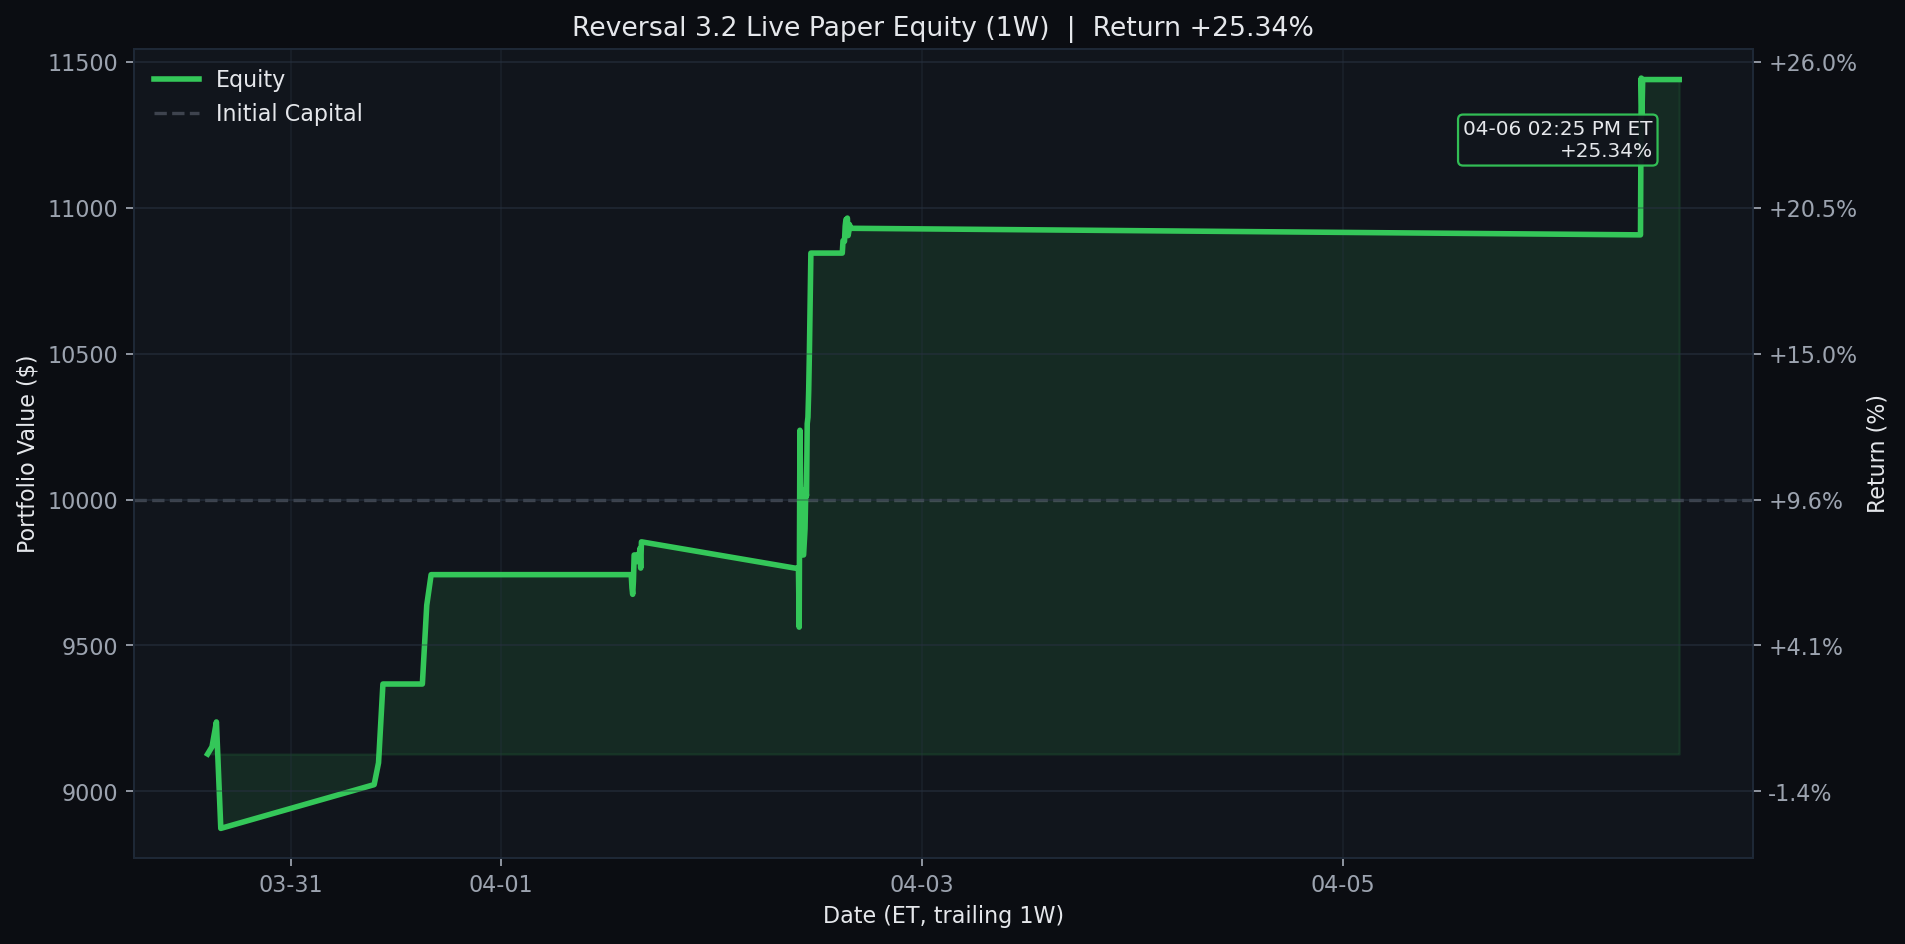
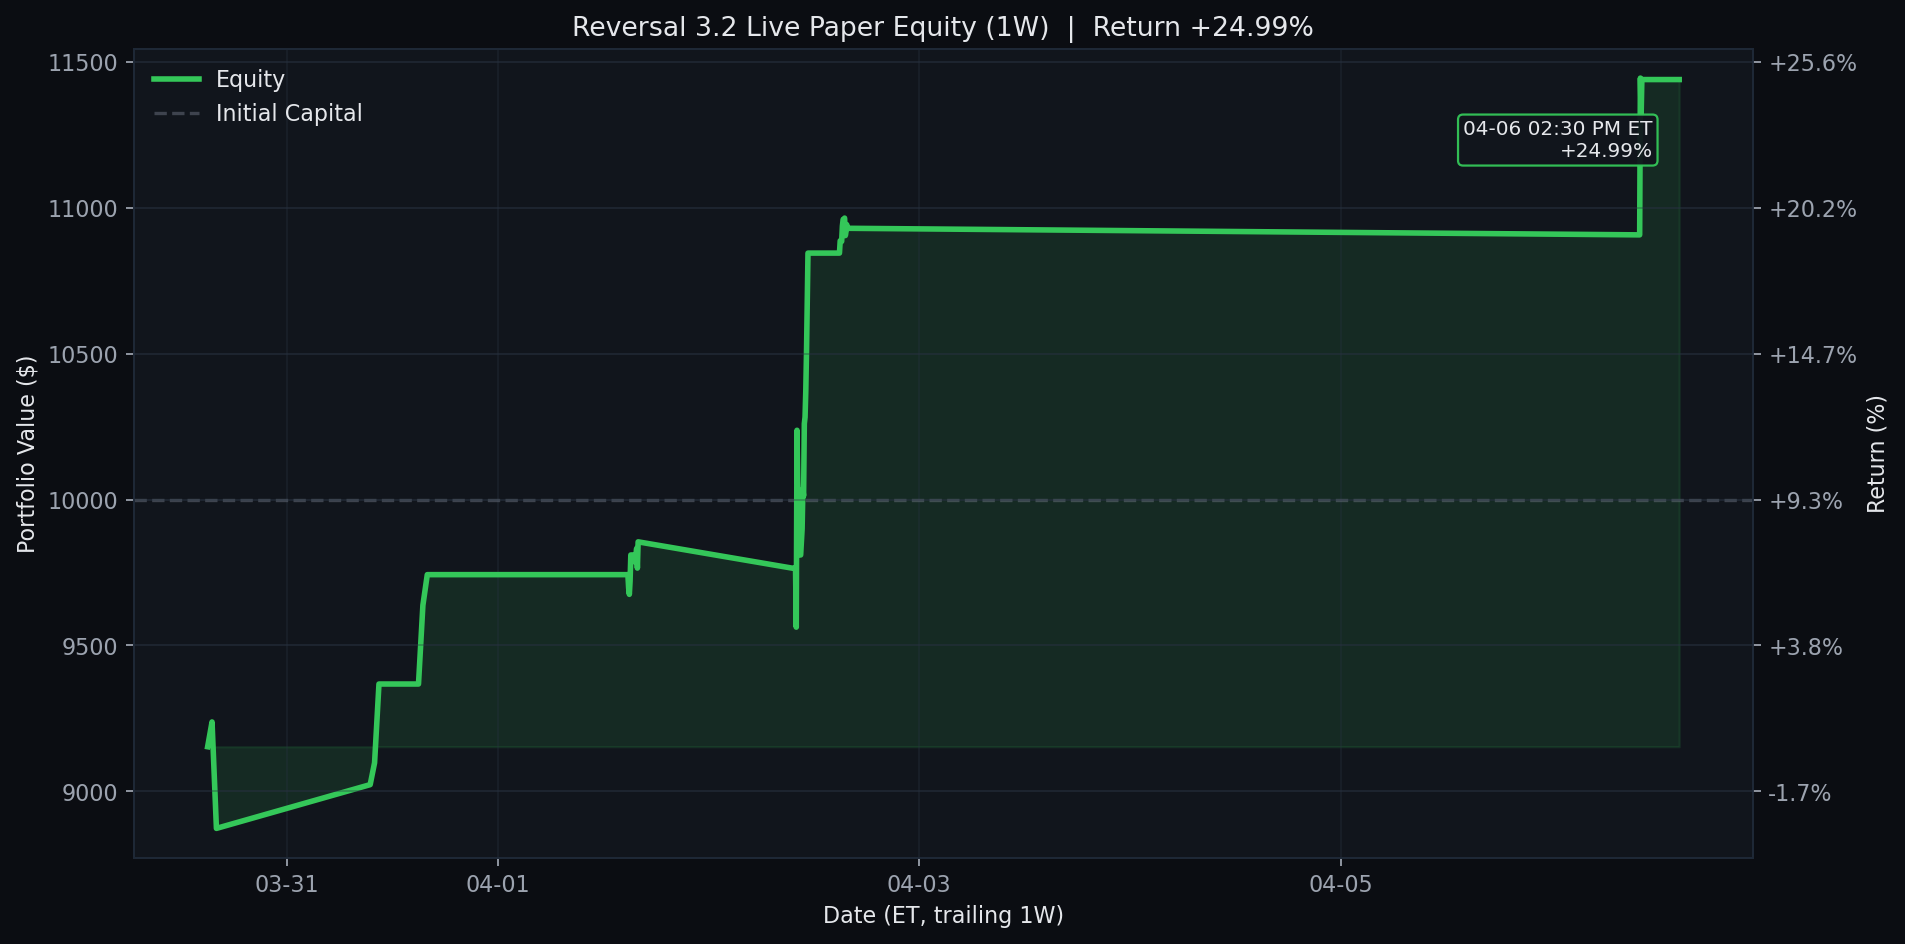
Update Reversal 3.2 live paper test 2026-04-06 14:30 ET

diff --git a/results/reversal_3_2_live/README.md b/results/reversal_3_2_live/README.md
@@ -1,6 +1,6 @@
 # Reversal 3.2 Live Paper Test
 
-Last updated (ET): `2026-04-06 14:25:05 EDT`
+Last updated (ET): `2026-04-06 14:30:05 EDT`
 Last processed slot: `manage_1430`
 
 ## Active Configuration
@@ -40,24 +40,25 @@ ticker    contract_symbol entry_trade_date_et exit_trade_date_et  entry_option_p
 
 ```text
 ticker  success_rate_%  matched_signals  current_drop_%  target_rebound_$  target_price  rolling_sigma_20d_%  call_candidate
-   HON          100.00               19            0.83              1.34        228.88                20.57            True
-  TSLA          100.00               13            3.34              8.43        356.98                42.35            True
- CMCSA           93.33               15            0.68              0.13         27.87                25.15            True
-  FAST           88.00               25            1.11              0.36         46.15                21.85            True
-  ASML           87.10               31            1.00              9.22       1313.28                51.28            True
-   LIN           86.67               15            0.96              3.36        501.16                19.40            True
-  CTAS           86.21               29            0.75              0.92        173.95                28.60            True
+   HON          100.00               20            0.77              1.24        228.92                20.57            True
+  TSLA          100.00               14            3.31              8.36        357.01                42.35            True
+ CMCSA           92.86               14            0.73              0.14         27.87                25.15            True
+  FAST           89.29               28            0.90              0.29         46.18                21.85            True
+  ASML           87.10               31            1.10             10.11       1312.90                51.28            True
+  CTAS           86.67               30            0.72              0.88        173.96                28.60            True
    EXC           85.71               21            0.53              0.18         49.25                21.30            True
-  DDOG           85.19               27            2.24              1.89        119.55                49.88            True
-  VRTX           85.00               40            0.66              2.04        437.84                40.20            True
-   PEP           82.35               17            0.78              0.86        156.64                18.34            True
-  TTWO           80.56               36            1.23              1.72        199.13                26.67            True
+   LIN           85.71               14            0.97              3.43        501.13                19.40            True
+  VRTX           85.37               41            0.55              1.68        437.99                40.20            True
+  DDOG           85.19               27            2.35              1.98        119.51                49.88            True
+   PEP           80.95               21            0.57              0.63        156.74                18.34            True
+  TTWO           80.56               36            1.27              1.77        199.11                26.67            True
 ```
 
 ## Recent Events
 
 ```text
                     timestamp_et        slot   event_type                          detail
+2026-04-06T14:30:05.890964-04:00 manage_1430 slot_skipped {"reason": "already_processed"}
 2026-04-06T14:25:05.885384-04:00 manage_1430 slot_skipped {"reason": "already_processed"}
 2026-04-06T14:10:05.888996-04:00 manage_1400 slot_skipped {"reason": "already_processed"}
 2026-04-06T14:05:05.887839-04:00 manage_1400 slot_skipped {"reason": "already_processed"}
@@ -67,7 +68,6 @@ ticker  success_rate_%  matched_signals  current_drop_%  target_rebound_$  targe
 2026-04-06T13:35:05.888620-04:00 manage_1330 slot_skipped {"reason": "already_processed"}
 2026-04-06T13:30:05.885486-04:00 manage_1330 slot_skipped {"reason": "already_processed"}
 2026-04-06T13:25:05.887688-04:00 manage_1330 slot_skipped {"reason": "already_processed"}
-2026-04-06T13:10:05.894755-04:00 manage_1300 slot_skipped {"reason": "already_processed"}
 ```
 
 ## Equity Curves

diff --git a/README.md b/README.md
@@ -3,7 +3,7 @@
 <!-- reversal-3.2-live:start -->
 ## Reversal 3.2 Live Paper Test
 
-- Last updated (ET): `2026-04-06 14:25:05 EDT`
+- Last updated (ET): `2026-04-06 14:30:05 EDT`
 - Equity: `$11,440.00` | Realized: `$1,440.00` | Unrealized: `$0.00` | Open positions: `0`
 - Today closed trades: `1`
 - Current slot: `manage_1430`
